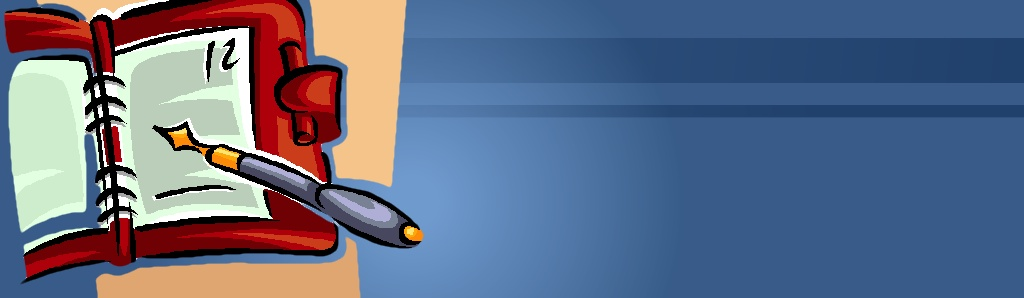
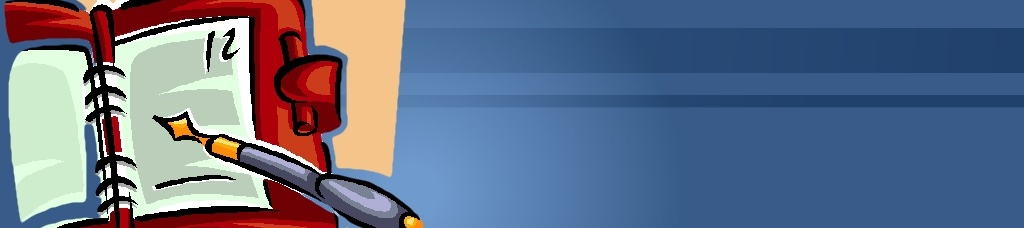
Agregada interfas para detalle del historial de asuntos

Changed region(s): [[0.0, 0.0, 0.4375, 1.0], [0.625, 0.2763, 1.0, 0.4912], [0.9375, 0.1228, 1.0, 0.1535]]

diff --git a/public/stylesheets/estilo.css b/public/stylesheets/estilo.css
@@ -48,7 +48,7 @@ body {
 	}
 	
 	#banner {
-	height: 298px;
+	height: 228px;
 	background:url(.jpg) no-repeat;
 	background-color: #81ABD3;
 	clear:both;

diff --git a/config/routes.rb b/config/routes.rb
@@ -3,18 +3,23 @@ ActionController::Routing::Routes.draw do |map|
   map.login '/login', :controller => 'sessions', :action => 'new'
   map.register '/register', :controller => 'users', :action => 'create'
   map.signup '/signup', :controller => 'users', :action => 'new'
-  map.resources :historial
   map.resource :session
 
   map.resources :asuntos do |asuntos|
    asuntos.resources :comentarios
   end
+  
+  map.resources :historial, :only => [:index, :show]
+  
   map.reporte '/reporte', :controller => 'reporte', :action => 'index'
   map.reporte '/reporte/afecha', :controller => 'reporte', :action => 'afecha'
   map.reporte '/reporte/afecha/ver', :controller => 'reporte', :action => 'ver'
   map.reporte '/reporte/usuarios', :controller => 'reporte', :action => 'usuarios'
   map.reporte '/reporte/usuarios/ver', :controller => 'reporte', :action => 'ver'
   map.reporte '/reporte/usuarios/all', :controller => 'reporte', :action => 'usuariostodos'
+  map.connect '/historial/detail/:id', :controller => 'historial', :action => 'detail'
+  
+ 
   
   ## Administración
   map.namespace(:admin) do |admin|

diff --git a/db/schema.rb b/db/schema.rb
@@ -9,7 +9,7 @@
 #
 # It's strongly recommended to check this file into your version control system.
 
-ActiveRecord::Schema.define(:version => 20100924172816) do
+ActiveRecord::Schema.define(:version => 20101010195622) do
 
   create_table "asuntos", :force => true do |t|
     t.date     "fecha"
@@ -31,6 +31,22 @@ ActiveRecord::Schema.define(:version => 20100924172816) do
     t.integer  "persona_turnado_id"
     t.integer  "status_id"
   end
+
+  create_table "audits", :force => true do |t|
+    t.integer  "auditable_id"
+    t.string   "auditable_type"
+    t.integer  "user_id"
+    t.string   "user_type"
+    t.string   "username"
+    t.string   "action"
+    t.text     "changes"
+    t.integer  "version",        :default => 0
+    t.datetime "created_at"
+  end
+
+  add_index "audits", ["auditable_id", "auditable_type"], :name => "auditable_index"
+  add_index "audits", ["created_at"], :name => "index_audits_on_created_at"
+  add_index "audits", ["user_id", "user_type"], :name => "user_index"
 
   create_table "cambios", :force => true do |t|
     t.string   "descripcion"

diff --git a/db/migrate/20101010195622_add_audits_table.rb b/db/migrate/20101010195622_add_audits_table.rb
@@ -1,0 +1,23 @@
+class AddAuditsTable < ActiveRecord::Migration
+  def self.up
+    create_table :audits, :force => true do |t|
+      t.column :auditable_id, :integer
+      t.column :auditable_type, :string
+      t.column :user_id, :integer
+      t.column :user_type, :string
+      t.column :username, :string
+      t.column :action, :string
+      t.column :changes, :text
+      t.column :version, :integer, :default => 0
+      t.column :created_at, :datetime
+    end
+    
+    add_index :audits, [:auditable_id, :auditable_type], :name => 'auditable_index'
+    add_index :audits, [:user_id, :user_type], :name => 'user_index'
+    add_index :audits, :created_at  
+  end
+
+  def self.down
+    drop_table :audits
+  end
+end

diff --git a/app/controllers/historial_controller.rb b/app/controllers/historial_controller.rb
@@ -10,7 +10,11 @@ class HistorialController < ApplicationController
   end
   def show
     @asunto = Asunto.find(params[:id])
-    @movimientos = Cambio.paginate(:page => params[:page], :per_page => 5,:conditions => ["asunto_id = ?", params[:id]])
+    @audits = Audit.paginate(:page => params[:page], :per_page => 5,:conditions => ["auditable_id = ?", params[:id]])
+    #@movimientos = Cambio.paginate(:page => params[:page], :per_page => 5,:conditions => ["asunto_id = ?", params[:id]])
     
   end
+  def detail
+     @audit = Audit.find(params[:id])
+   end
 end

diff --git a/config/environment.rb b/config/environment.rb
@@ -24,6 +24,7 @@ Rails::Initializer.run do |config|
     config.gem "configatron"
     config.gem "calendar_date_select"
 #    config.gem "active_form"
+    config.gem 'acts_as_audited'
 
   # Only load the plugins named here, in the order given (default is alphabetical).
   # :all can be used as a placeholder for all plugins not explicitly named

diff --git a/app/models/user.rb b/app/models/user.rb
@@ -5,6 +5,7 @@ class User < ActiveRecord::Base
   has_many :pendientes
   has_many :cambios
   has_many :asuntos
+  has_many :audits
   
   has_many :subordinados, :class_name => "User",
      :foreign_key => "jefe_id"

diff --git a/app/helpers/historial_helper.rb b/app/helpers/historial_helper.rb
@@ -1,2 +1,11 @@
 module HistorialHelper
+  
+  def traduce_accion(accion)
+    if (accion == "update")
+      "Actualización"
+    elsif (accion == "create")
+      "Creación"
+    end
+  end
+
 end

diff --git a/app/models/asunto.rb b/app/models/asunto.rb
@@ -1,4 +1,5 @@
 class Asunto < ActiveRecord::Base
+  acts_as_audited
   # Restricciones
   
   # Relaciones

diff --git a/app/models/audit.rb b/app/models/audit.rb
@@ -1,0 +1,3 @@
+class Audit < ActiveRecord::Base
+  belongs_to :user
+end
